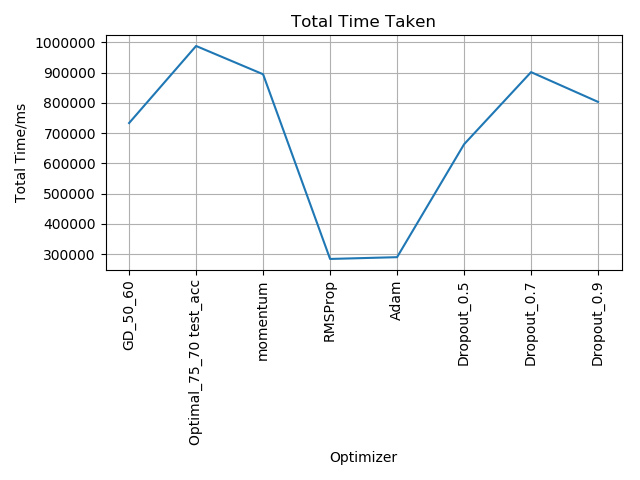
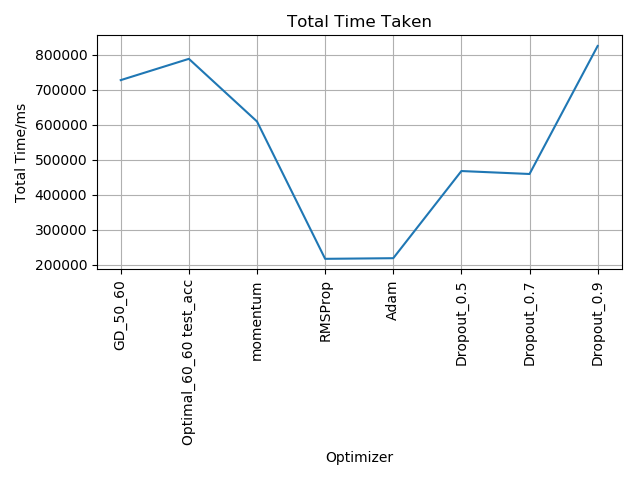
Updates

diff --git a/Assignment2/start_project_2a_jp_new.py b/Assignment2/start_project_2a_jp_new.py
@@ -351,7 +351,8 @@ def grid_search(trainX, trainY,
                                                 X_test=testX, Y_test=testY,
                                                 X_val=valX, Y_val=valY)
             train_err, test_acc, time_taken_one_epoch, early_stop_epoch = cnn.train_err, cnn.test_acc, cnn.time_taken_one_epoch, cnn.early_stop_epoch
-
+            print("C1: {0:d}    C2: {1:d}    Test Accuracy: {2:.4f}".format(C1_map, C2_map,test_acc[-1]))
+            print('='*50)
             gs_train_err_dict[key] = train_err
             gs_test_acc_dict[key] = test_acc
             gs_time_taken_one_epoch_dict[key] = time_taken_one_epoch
@@ -359,6 +360,7 @@ def grid_search(trainX, trainY,
 
     gs_test_acc_dict = OrderedDict(sorted(gs_test_acc_dict.items(), key=lambda t: t[1][-1], reverse=True))
     opt_C1_C2 = list(gs_test_acc_dict.items())[0]
+	
     optimal_C1 = opt_C1_C2[0][0]
     optimal_C2 = opt_C1_C2[0][1]
     optimal_test_acc = opt_C1_C2[1]
@@ -424,8 +426,8 @@ def main():
     ind = np.random.randint(low=0, high=len(testX))
     X = trainX[ind,:]
     path_dict = dict(test='figures/a/1b_1_test.png', c1='figures/a/1b_1_c1.png',
-                    p1='figures/a/1b_1_p1.png', c2='figures/a/1b_1_c2.png',
-                    p2='figures/a/1b_1_p2.png')
+                    # p1='figures/a/1b_1_p1.png', c2='figures/a/1b_1_c2.png',
+                    # p2='figures/a/1b_1_p2.png')
     plot_feature_map(X, cnn, path_dict)
 
     ind = np.random.randint(low=0, high=10)
@@ -436,7 +438,7 @@ def main():
     plot_feature_map(X, cnn, path_dict)
 
     # =====================Q2 optimal feature map=====================
-    '''
+    
     C1_range = [40,71,10]
     C2_range = [40,71,10]
     optimal_dict = grid_search(trainX, trainY,
@@ -460,28 +462,16 @@ def main():
     test_acc_dict[optimal_C] = optimal_dict['test_acc']
     time_taken_one_epoch_dict[optimal_C] = optimal_dict['time']
     early_stop_epoch_dict[optimal_C] = optimal_dict['es_epoch']
+	
 
     print("Optimal C1: {}\nOptimal C2: {}".format(C1, C2))
+	
     # ==================================================
-    # test_acc: 0.518500
-    # Optimal C1: 75
-    # Optimal C2: 70
+    # test_acc: 0.5120
+    # Optimal C1: 60
+    # Optimal C2: 60
     # ==================================================
-    '''
-	# to delete
-    C1 = 75
-    C2 = 70
-    model_save_path = 'models/a/2_C1_' + str(C1) + '_C2_' + str(C2)
-    init_dict = arg_dict(model_save_path, C1, C2,optimizer)
-    cnn = CNNClassifer(**init_dict).train(X_train=trainX, Y_train=trainY,
-                                        X_test=testX, Y_test=testY,
-                                        X_val=valX, Y_val=valY)
-    train_err, test_acc, time_taken_one_epoch, early_stop_epoch = cnn.train_err, cnn.test_acc, cnn.time_taken_one_epoch, cnn.early_stop_epoch
-    train_err_dict['Optimal_75_70 test_acc'] = train_err
-    test_acc_dict['Optimal_75_70 test_acc'] = test_acc
-    time_taken_one_epoch_dict['Optimal_75_70 test_acc'] = time_taken_one_epoch
-    early_stop_epoch_dict['Optimal_75_70 test_acc'] = early_stop_epoch
-
+    
     # =====================Q3 optimal feature map=====================
     
     optimizers = ['momentum','RMSProp','Adam','Dropout_0.5', 'Dropout_0.7', 'Dropout_0.9']
@@ -615,7 +605,61 @@ def main():
         print('Number of Epochs: {}'.format(early_stop_epoch_dict[key]))
         print('Convergence Test Accuracy: {}'.format(test_acc_dict[key][-1]))
         print('-'*50)
-    
+	
+	# --------------------------------------------------
+	# model: GD_50_60 test_acc: 0.510500
+	# model: Optimal_60_60 test_acc test_acc: 0.516000
+	# model: momentum test_acc: 0.495000
+	# model: RMSProp test_acc: 0.422500
+	# model: Adam test_acc: 0.475000
+	# model: Dropout_0.5 test_acc: 0.423000
+	# model: Dropout_0.7 test_acc: 0.439000
+	# model: Dropout_0.9 test_acc: 0.500000
+	# GD_50_60
+	# Time per epoch: 984.319887883931ms
+	# Number of Epochs: 739
+	# Convergence Test Accuracy: 0.5105000138282776
+	# --------------------------------------------------
+	# Optimal_60_60 test_acc
+	# Time per epoch: 1066.54181886913ms
+	# Number of Epochs: 739
+	# Convergence Test Accuracy: 0.515999972820282
+	# --------------------------------------------------
+	# momentum
+	# Time per epoch: 1029.020267161163ms
+	# Number of Epochs: 592
+	# Convergence Test Accuracy: 0.4950000047683716
+	# --------------------------------------------------
+	# RMSProp
+	# Time per epoch: 1078.4955119612205ms
+	# Number of Epochs: 201
+	# Convergence Test Accuracy: 0.42250001430511475
+	# --------------------------------------------------
+	# Adam
+	# Time per epoch: 1087.4985011655892ms
+	# Number of Epochs: 201
+	# Convergence Test Accuracy: 0.4749999940395355
+	# --------------------------------------------------
+	# Dropout_0.5
+	# Time per epoch: 1489.2535057796795ms
+	# Number of Epochs: 314
+	# Convergence Test Accuracy: 0.4230000078678131
+	# --------------------------------------------------
+	# Dropout_0.7
+	# Time per epoch: 1486.0388368464596ms
+	# Number of Epochs: 309
+	# Convergence Test Accuracy: 0.4390000104904175
+	# --------------------------------------------------
+	# Dropout_0.9
+	# Time per epoch: 1473.141430105482ms
+	# Number of Epochs: 560
+	# Convergence Test Accuracy: 0.5
+	# --------------------------------------------------
+
+		
+	
+    '''
+	old versions
     # --------------------------------------------------
 	# model: GD_50_60 test_acc: 0.509000
 	# model: Optimal_75_70 test_acc test_acc: 0.518500
@@ -664,7 +708,8 @@ def main():
 	# Time per epoch: 1987.9034627782237ms
 	# Number of Epochs: 404
 	# Convergence Test Accuracy: 0.48399999737739563
-	# --------------------------------------------------    
+	# -------------------------------------------------- 
+	'''	
 # end def
 
 if __name__ == '__main__': main()
